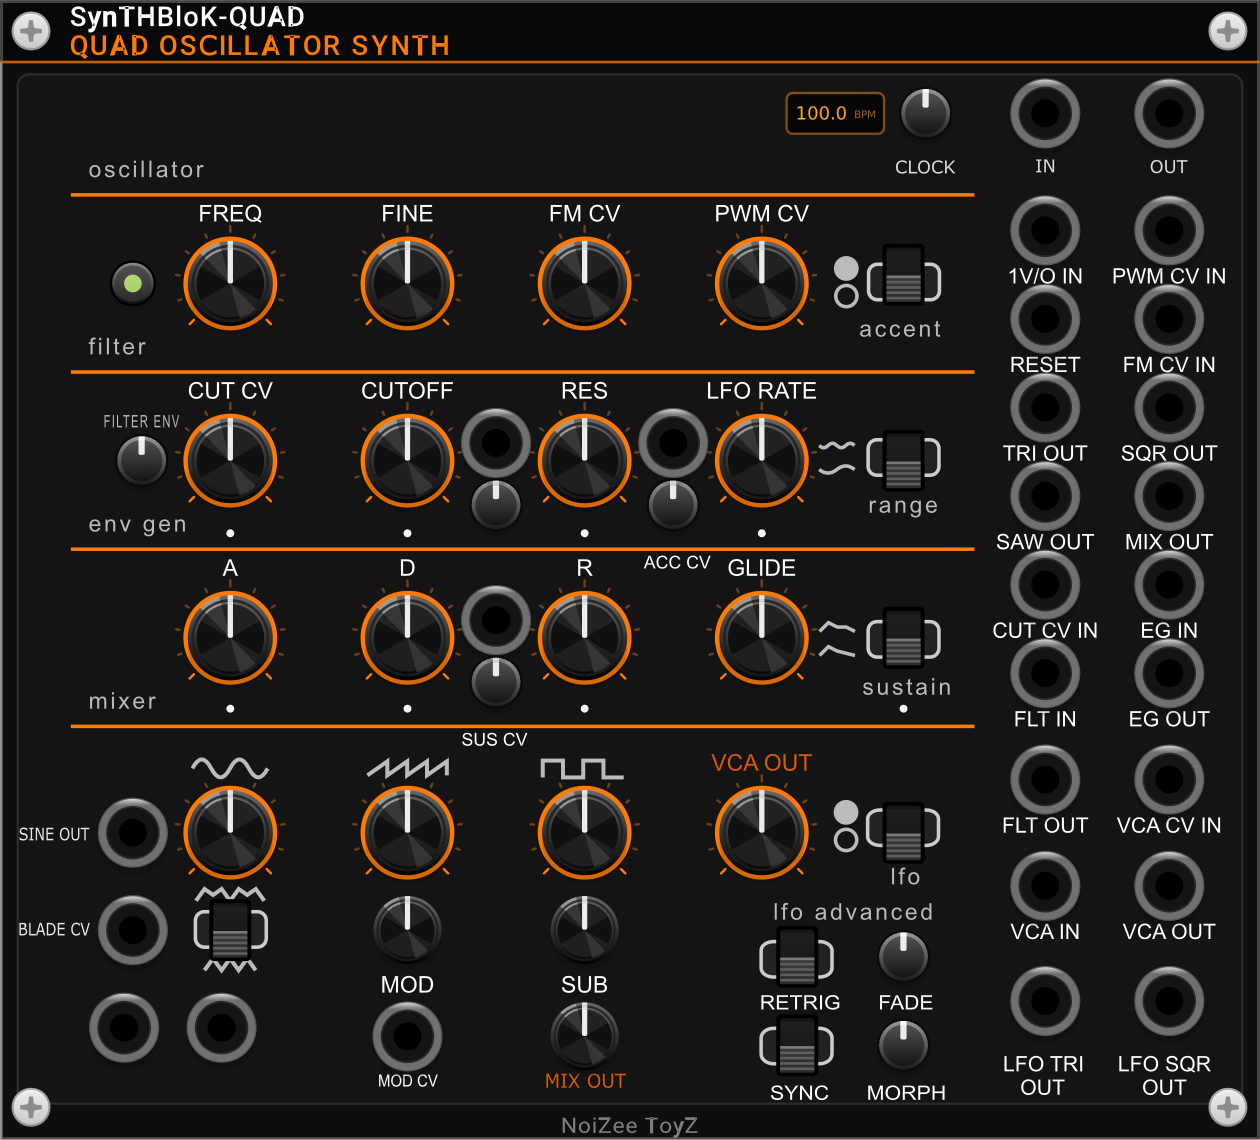
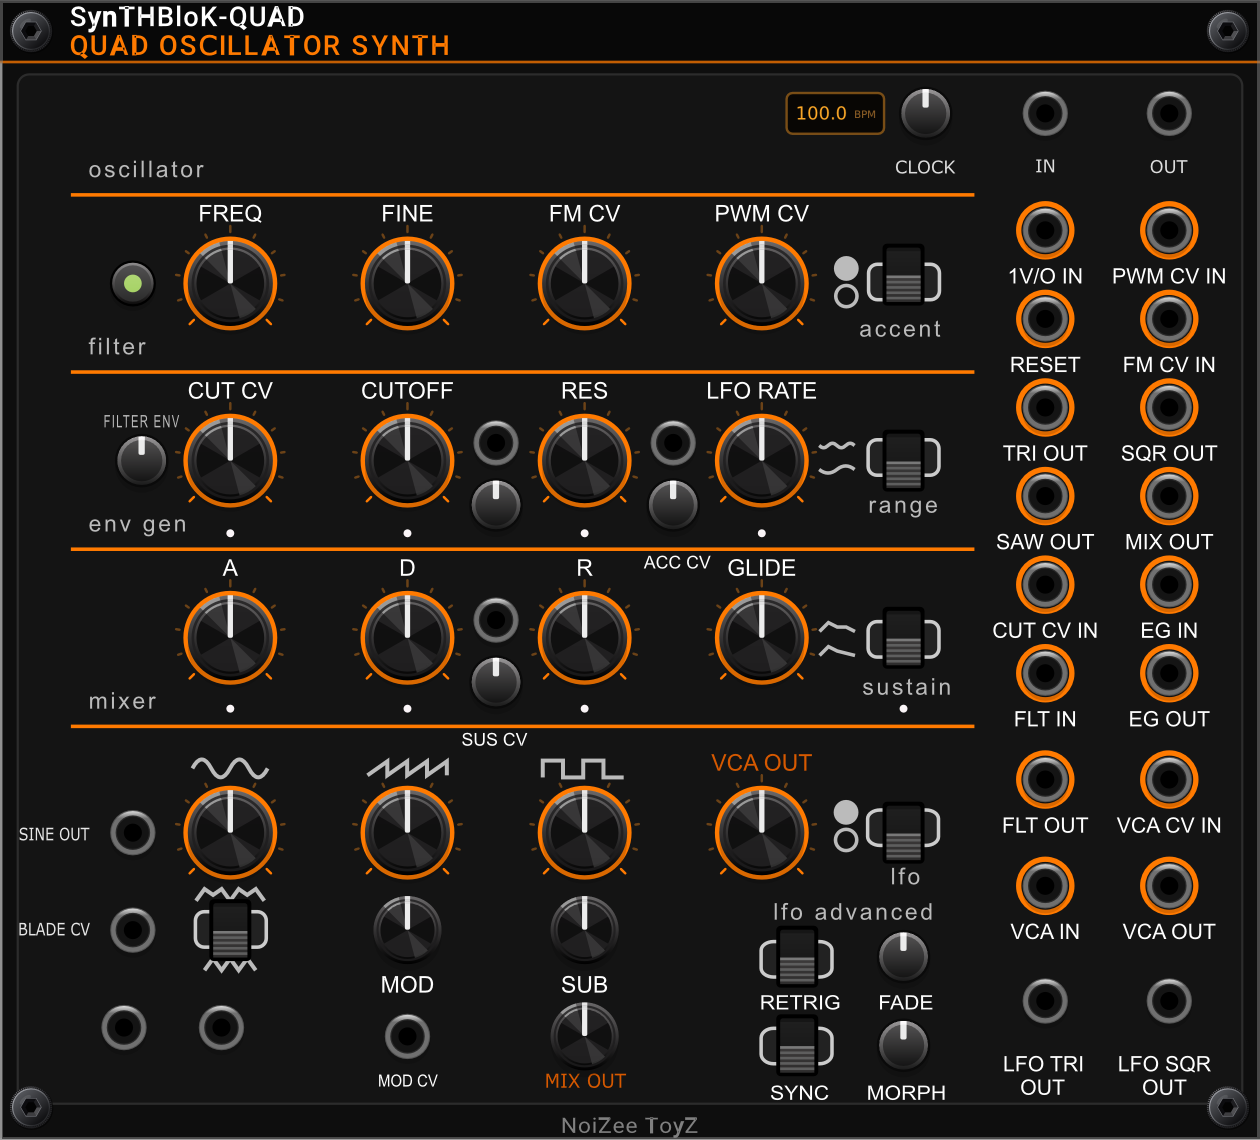
QUAD: the LFO RETRIG switch works: a new note restarts the LFO at phase 0 with its fade-in

diff --git a/src/QuadCore.hpp b/src/QuadCore.hpp
@@ -142,6 +142,7 @@ VOICE_BUTTON_LIGHT,
     float lastResetTime = 0.f;
     float resetPeriod = 0.5f;
     float lfoFade = 0.f;
+    bool lfoRetrig = false;   // RETRIG on: a new note restarts the LFO (phase 0, fade-in again) on the next sample
     float lfoDC = 0.f;
     float lfoSmooth = 0.f;
 
@@ -500,6 +501,10 @@ float accentKnob = params[ACCENT_PARAM].getValue();
             lfoFreq = div / clockPeriod();   // the patched clock, or the CLOCK knob's tempo
         }
 
+        if (lfoRetrig) {   // (Nov 17 2026, Nick: "make it work") the RETRIG switch was configured but never read
+            lfoRetrig = false;
+            if (params[LFO_RETRIG_PARAM].getValue() > 0.5f) { lfoPhase = 0.f; lfoFade = 0.f; }   // the fade (min 50 ms) hides the jump
+        }
         lfoPhase += lfoFreq * dt;
         if (lfoPhase >= 1.f)
             lfoPhase -= 1.f;
@@ -771,6 +776,7 @@ float accentKnob = params[ACCENT_PARAM].getValue();
             }
 
             bool gateRise = gateNow && !gatePrev[v];
+            if (gateRise) lfoRetrig = true;
 
 
             bool gateFall = !gateNow && gatePrev[v];
@@ -1316,8 +1322,8 @@ w->addChild(vdisp);
             w->addChild(cd);
         }
         if (!essential) {
-        w->addOutput(createOutput<BlackJack>(mm(10.f, 112.f), module, SynTHBloK::STEREO_L_OUTPUT));
-        w->addOutput(createOutput<BlackJack>(mm(21.f, 112.f), module, SynTHBloK::STEREO_R_OUTPUT));
+        w->addOutput(createOutputCentered<BlackJack>(mm(14.f, 116.f), module, SynTHBloK::STEREO_L_OUTPUT));   // (centred where the 8 mm jack's middle was: the small jack stays on its spot)
+        w->addOutput(createOutputCentered<BlackJack>(mm(25.f, 116.f), module, SynTHBloK::STEREO_R_OUTPUT));
         }
 w->addParam(createParamCentered<Trimpot>(mm(56.f, 57.f), module, SynTHBloK::KEYTRACK_PARAM));
         if (!essential) w->addInput(createInputCentered<BlackJack>(mm(56.f, 50.f), module, SynTHBloK::KEYTRACK_INPUT));

diff --git a/src/plugin.hpp b/src/plugin.hpp
@@ -1,5 +1,6 @@
 #pragma once
 #include "rack.hpp"
+#include <set>
 
 using namespace rack;
 
@@ -44,11 +45,19 @@ extern Model* modelSynTHBloKLoop;
 extern Model* modelSynTHBloKMtxQuad;
 extern Model* modelSynTHBloKDualFilter;
 extern Model* modelSynTHBloKRandroyd;
+extern Model* modelNoizeePatchGen;
+// the module ids PATCH GEN placed (src/NoizeePatchGen.cpp): RANDROYD never patches into them
+std::set<int64_t>& patchGenOwned();
+// ONE RIG: set by a RANDROYD in the rack; PATCH GEN calls it so its patch packs into RANDROYD's rig
+#include <functional>
+std::function<void(history::ComplexAction*)>& randroydPackHook();
 
 // VCV-size jack (23.7 px, the same as Rack's PJ301M): black body with a silver ring.
 // Used on every module but the JAM and MIX-24.
 struct BlackJack : app::SvgPort {
-    BlackJack() { setSvg(APP->window->loadSvg(asset::plugin(pluginInstance, "res/JackBlackSilver.svg"))); }
+    // (Nov 14 2026, Nick: "make all the jacks match small jacks": every module's jacks are the 5.2 mm small jack now; the
+    // 8 mm black / silver art stays in res/ in case it comes back. Jacks are placed by their centre, so they stay put.)
+    BlackJack() { setSvg(APP->window->loadSvg(asset::plugin(pluginInstance, "res/JackSmall.svg"))); }
 };
 
 // Small version of BlackJack (5.2 mm), for the JAM and MIX-24 modules.
